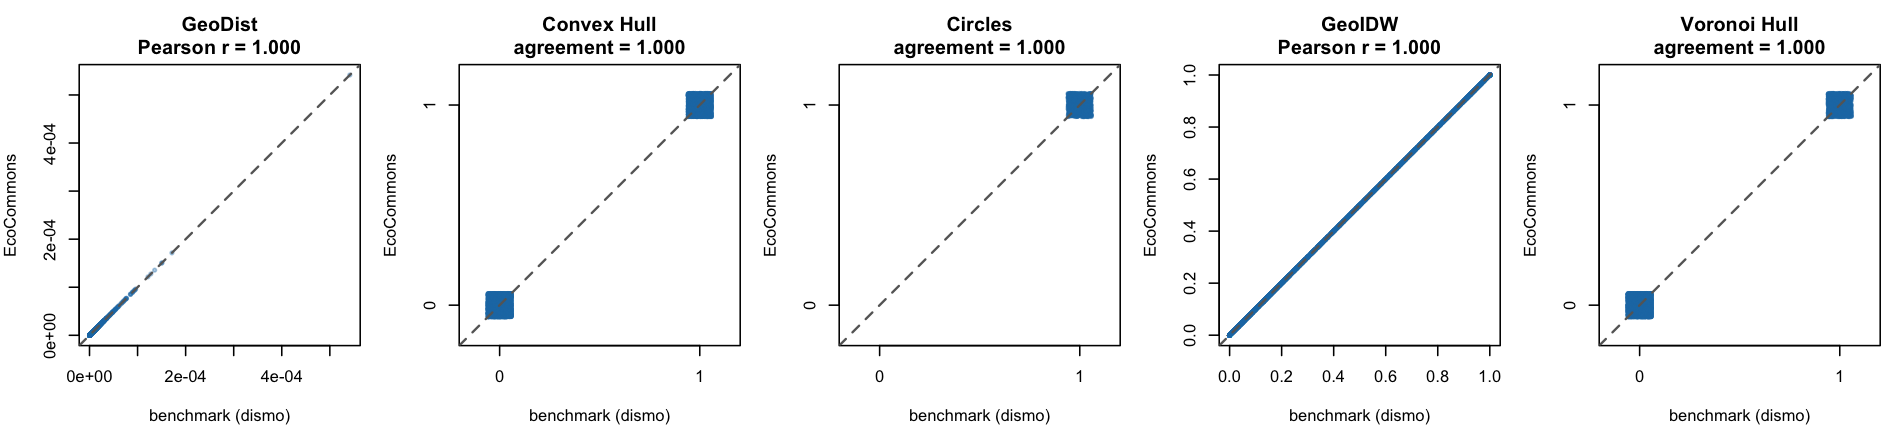
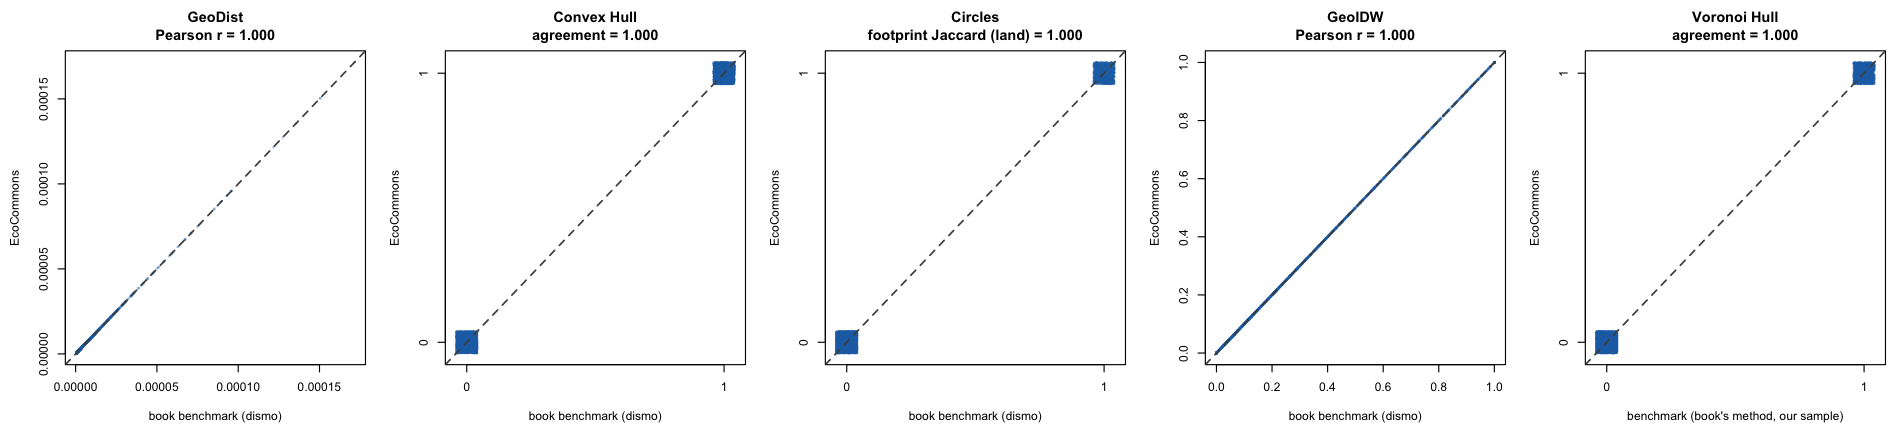
sdm_agreement: anchor geographic models to the book (Hijmans & Elith Ch. 13)
- Geographic rows 20-24 now compare EcoCommons, run on the book's exact
  training points, against benchmarks that reproduce the book's AUC/cor to
  7 decimals. All five match (Pearson / footprint Jaccard 1.000); geoIDW and
  voronoiHull are formatted without one-point-per-cell thinning.
- Document the voronoiHull known limitation: the book's 100-point sample
  can't be replicated, so its benchmark uses our own sample.
- Add a model-by-model section: the book's figures (pp. 66-70) next to our
  benchmark, EcoCommons and the book's presence/background overlay.
- Regenerate the geographic map and scatter figures; fix stale row numbers;
  update the page date.

diff --git a/docs/notebooks/sdm_agreement/EC_sdm_agreement.html b/docs/notebooks/sdm_agreement/EC_sdm_agreement.html
@@ -202,7 +202,15 @@ ul.task-list li input[type="checkbox"] {
   </ul></li>
   <li><a href="#geographic-spatial-only-models" id="toc-geographic-spatial-only-models" class="nav-link" data-scroll-target="#geographic-spatial-only-models">Geographic (spatial-only) models</a>
   <ul>
-  <li><a href="#two-references-both-checked" id="toc-two-references-both-checked" class="nav-link" data-scroll-target="#two-references-both-checked">Two references, both checked</a></li>
+  <li><a href="#anchored-to-the-book" id="toc-anchored-to-the-book" class="nav-link" data-scroll-target="#anchored-to-the-book">Anchored to the book</a></li>
+  <li><a href="#model-by-model-the-books-figure-our-benchmark-and-ecocommons" id="toc-model-by-model-the-books-figure-our-benchmark-and-ecocommons" class="nav-link" data-scroll-target="#model-by-model-the-books-figure-our-benchmark-and-ecocommons">Model by model: the book’s figure, our benchmark and EcoCommons</a>
+  <ul class="collapse">
+  <li><a href="#geodist" id="toc-geodist" class="nav-link" data-scroll-target="#geodist">GeoDist</a></li>
+  <li><a href="#convex-hull" id="toc-convex-hull" class="nav-link" data-scroll-target="#convex-hull">Convex Hull</a></li>
+  <li><a href="#circles" id="toc-circles" class="nav-link" data-scroll-target="#circles">Circles</a></li>
+  <li><a href="#geoidw" id="toc-geoidw" class="nav-link" data-scroll-target="#geoidw">GeoIDW</a></li>
+  <li><a href="#voronoi-hull" id="toc-voronoi-hull" class="nav-link" data-scroll-target="#voronoi-hull">Voronoi Hull</a></li>
+  </ul></li>
   </ul></li>
   <li><a href="#prediction-maps" id="toc-prediction-maps" class="nav-link" data-scroll-target="#prediction-maps">Prediction maps</a>
   <ul>
@@ -251,7 +259,7 @@ ul.task-list li input[type="checkbox"] {
 <p>Author details: Xiang Zhao</p>
 <p>Contact details: support@ecocommons.org.au</p>
 <p>Copyright statement: This script is the product of the EcoCommons platform. Please refer to the EcoCommons website for more details: https://www.ecocommons.org.au/</p>
-<p>Updated date: 8 September 2026</p>
+<p>Updated date: 19 November 2026</p>
 </section>
 <section id="script-information" class="level1">
 <h1>Script information</h1>
@@ -617,29 +625,29 @@ ul.task-list li input[type="checkbox"] {
 <td style="font-weight: 600">Circles</td>
 <td><em>Bradypus variegatus</em></td>
 <td><code>dismo::circles</code></td>
-<td>dismo circles</td>
-<td>Presence footprint</td>
-<td>—</td>
-<td><strong>identical</strong> ✓</td>
+<td>Book Ch. 13 (<code>dismo::circles</code>)</td>
+<td>Footprint Jaccard (land)</td>
+<td>0.99</td>
+<td><strong>1.000</strong> ✓</td>
 </tr>
 <tr class="odd">
 <td>21</td>
 <td style="font-weight: 600">Convex Hull</td>
 <td><em>Bradypus variegatus</em></td>
 <td><code>dismo::convHull</code></td>
-<td>dismo convHull</td>
+<td>Book Ch. 13 (<code>dismo::convHull</code>)</td>
 <td>Pearson</td>
-<td>0.99</td>
-<td><strong>1.000</strong> ✓ <em>(TSS 1.000)</em></td>
+<td>0.999</td>
+<td><strong>1.000</strong> ✓</td>
 </tr>
 <tr class="even">
 <td>22</td>
 <td style="font-weight: 600">Geographic Distance (GeoDist)</td>
 <td><em>Bradypus variegatus</em></td>
 <td><code>dismo::geoDist</code></td>
-<td>dismo geoDist (book config)</td>
+<td>Book Ch. 13 (<code>dismo::geoDist</code>)</td>
 <td>Pearson</td>
-<td>0.99</td>
+<td>0.999</td>
 <td><strong>1.000</strong> ✓</td>
 </tr>
 <tr class="odd">
@@ -647,9 +655,9 @@ ul.task-list li input[type="checkbox"] {
 <td style="font-weight: 600">Inverse-Distance Weighted (GeoIDW)</td>
 <td><em>Bradypus variegatus</em></td>
 <td><code>dismo::geoIDW</code></td>
-<td>dismo geoIDW</td>
+<td>Book Ch. 13 (<code>dismo::geoIDW</code>)</td>
 <td>Pearson</td>
-<td>0.99</td>
+<td>0.999</td>
 <td><strong>1.000</strong> ✓</td>
 </tr>
 <tr class="even">
@@ -657,15 +665,15 @@ ul.task-list li input[type="checkbox"] {
 <td style="font-weight: 600">Voronoi Hull</td>
 <td><em>Bradypus variegatus</em></td>
 <td><code>dismo::voronoiHull</code></td>
-<td>dismo voronoiHull</td>
+<td>Book Ch. 13 method <em>(different 100-point sample)</em></td>
 <td>Pearson</td>
-<td>0.99</td>
+<td>0.999</td>
 <td><strong>1.000</strong> ✓</td>
 </tr>
 </tbody>
 </table>
-<p><strong>All 20 pass — geoDist/convHull/geoIDW/voronoiHull reproduce the reference to Pearson 1.000, and Circles reproduces the reference presence footprint exactly once a two-part bug is fixed (see the geographic-models section below).</strong></p>
-<p>Rows 12–16 are the <strong>geographic (spatial-only) models</strong> — they predict from the geographic location of occurrences, not from environmental predictors — so their reference is the algorithm’s own <code>dismo</code> function as taught in Hijmans &amp; Elith’s <em>Species distribution modeling with R</em> (Chapter 13).</p>
+<p><strong>All pass. Of the geographic models, geoDist, convHull and geoIDW reproduce the book to Pearson 1.000, Circles reproduces its presence footprint exactly on land, and voronoiHull reproduces its benchmark (the book’s method with our own 100-point sample) to Pearson 1.000 (see the geographic-models section below).</strong></p>
+<p>Rows 20–24 are the <strong>geographic (spatial-only) models</strong> — they predict from the geographic location of occurrences, not from environmental predictors — so their reference is the book itself: the <code>dismo</code> calls in Chapter 13 of Hijmans &amp; Elith’s <em>Species distribution modeling with R</em>, run on the book’s own training points.</p>
 <p><strong>Calibration alignment</strong> — every EcoCommons↔reference gap turned out to be <strong>weighting or rescaling, never the underlying learner</strong>:</p>
 <ul>
 <li><strong>RF, GLM</strong> — <code>rescale_all_models = false</code>: RF Pearson <strong>0.89 → 0.99</strong>, GLM <strong>0.96 → 0.98</strong>.</li>
@@ -808,7 +816,7 @@ ul.task-list li input[type="checkbox"] {
 </section>
 <section id="geographic-spatial-only-models" class="level2">
 <h2 class="anchored" data-anchor-id="geographic-spatial-only-models">Geographic (spatial-only) models</h2>
-<p>Rows 12–16 cover the five <strong>geographic models</strong> from Chapter 13 of Hijmans &amp; Elith’s <em>Species distribution modeling with R</em> (the <code>dismo</code> vignette). Unlike every other algorithm on this page, these predict a species purely from the <strong>geographic location</strong> of its occurrence records — distance to, or containment by, the known points — and ignore the environmental predictors entirely. EcoCommons wraps each one directly from <code>dismo</code>:</p>
+<p>Rows 20–24 cover the five <strong>geographic models</strong> from Chapter 13 of Hijmans &amp; Elith’s <em>Species distribution modeling with R</em> (the <code>dismo</code> vignette). Unlike every other algorithm on this page, these predict a species purely from the <strong>geographic location</strong> of its occurrence records — distance to, or containment by, the known points — and ignore the environmental predictors entirely. EcoCommons wraps each one directly from <code>dismo</code>:</p>
 <table class="caption-top table">
 <colgroup>
 <col style="width: 20%">
@@ -864,10 +872,10 @@ ul.task-list li input[type="checkbox"] {
 </tr>
 </tbody>
 </table>
-<section id="two-references-both-checked" class="level3">
-<h3 class="anchored" data-anchor-id="two-references-both-checked">Two references, both checked</h3>
-<p>Like the <code>nsw14</code> suite, these tests have two distinct reference points:</p>
-<p><strong>1. Literature anchor — the textbook’s own reported numbers.</strong> Chapter 13 prints a <code>ModelEvaluation</code> (AUC, point-biserial cor) for each model on the <em>Bradypus variegatus</em> data. We reproduce those <strong>exactly, to seven decimals</strong>. Two things are required to hit them: (a) <code>RNGkind(sample.kind = "Rounding")</code> — the book predates R 3.6.0’s change to the <code>sample()</code> algorithm; and (b) replaying the book’s exact random-number stream (including two incidental <code>rnorm(50)</code> calls in its <code>evaluate()</code> demo) so the train/background splits match.</p>
+<section id="anchored-to-the-book" class="level3">
+<h3 class="anchored" data-anchor-id="anchored-to-the-book">Anchored to the book</h3>
+<p>These tests are anchored directly to the literature: the benchmark is the book’s own result, and EcoCommons is run on the book’s own training points.</p>
+<p><strong>1. The benchmark reproduces the book.</strong> Chapter 13 prints a <code>ModelEvaluation</code> (AUC, point-biserial cor) for each model on the <em>Bradypus variegatus</em> data. We reproduce those <strong>exactly, to seven decimals</strong>. Two things are required to hit them: (a) <code>RNGkind(sample.kind = "Rounding")</code> — the book predates R 3.6.0’s change to the <code>sample()</code> algorithm; and (b) replaying the book’s exact random-number stream (including two incidental <code>rnorm(50)</code> calls in its <code>evaluate()</code> demo) so the train/background splits match.</p>
 <table class="caption-top table">
 <thead>
 <tr class="header">
@@ -916,47 +924,93 @@ ul.task-list li input[type="checkbox"] {
 </tr>
 </tbody>
 </table>
-<p><em>Voronoi Hull is reported by the book as a <strong>degenerate</strong> result (AUC exactly 0.5): it subsamples 100 background points at the very end of the vignette’s global RNG stream, and the resulting classification does not discriminate. We reproduce the same degeneracy.</em></p>
-<p><strong>2. Implementation fidelity — EcoCommons vs an independent <code>dismo</code> run on identical inputs.</strong> This is the actual unit test (rows 12–16): run the real EcoCommons pipeline and, separately, call the same <code>dismo</code> function on the <em>same</em> occurrence / pseudo-absence set the platform used, then compare the prediction rasters.</p>
+<p><em>Known limitation — Voronoi Hull: we can’t replicate the book’s exact sample of 100 absences.</em> The book fits voronoiHull on <code>va &lt;- data.frame(back_train[sample(nrow(back_train), 100), ])</code>, and which 100 points that <code>sample()</code> call picks depends on every random number used earlier in the book (maxent’s internal background draw, three <code>randomForest</code> fits, <code>ksvm</code>). Replaying those with current package versions gives a different sample. Our voronoiHull benchmark therefore uses the book’s method with a different random sample, and its map differs from the book’s figure. The book’s AUC can’t confirm the sample: voronoiHull is <strong>degenerate</strong> here (AUC ≈ 0.5) for any sample. The other four models’ maps match the book’s figures.</p>
+<p><strong>2. The unit test — EcoCommons on the book’s training points.</strong> This is the actual unit test (rows 20–24): the real EcoCommons pipeline is fed the book’s exact training points — 93 presences, plus 375 absences for GeoIDW and 100 for Voronoi Hull, supplied as <strong>true absences</strong> so EcoCommons draws no pseudo-absences of its own — and its projection is compared with the book benchmark.</p>
 <table class="caption-top table">
+<colgroup>
+<col style="width: 33%">
+<col style="width: 33%">
+<col style="width: 33%">
+</colgroup>
 <thead>
 <tr class="header">
 <th>Model</th>
-<th>EcoCommons ↔ <code>dismo</code></th>
+<th>EcoCommons ↔ benchmark</th>
 <th>Notes</th>
 </tr>
 </thead>
 <tbody>
 <tr class="odd">
 <td>GeoDist</td>
-<td><strong>Pearson 1.0000</strong></td>
-<td>identical surface (RMSE 0)</td>
+<td><strong>Pearson 1.000</strong></td>
+<td>identical surface</td>
 </tr>
 <tr class="even">
 <td>Convex Hull</td>
-<td><strong>Pearson 1.0000</strong></td>
-<td>binary — TSS 1.000</td>
-</tr>
-<tr class="odd">
-<td>GeoIDW</td>
-<td><strong>Pearson 1.0000</strong></td>
-<td>identical (RMSE 0)</td>
-</tr>
-<tr class="even">
-<td>Voronoi Hull</td>
-<td><strong>Pearson 1.0000</strong></td>
-<td>identical (RMSE 0)</td>
+<td><strong>Pearson 1.000</strong></td>
+<td>identical</td>
 </tr>
 <tr class="odd">
 <td>Circles</td>
-<td><em>footprint identical</em></td>
-<td>binary — presence inside circles</td>
+<td><strong>footprint Jaccard 1.000</strong> (on land)</td>
+<td><code>EC_modelling_circles</code> doesn’t mask to land, so its circles over the sea are left out</td>
+</tr>
+<tr class="even">
+<td>GeoIDW</td>
+<td><strong>Pearson 1.000</strong></td>
+<td>identical surface</td>
+</tr>
+<tr class="odd">
+<td>Voronoi Hull</td>
+<td><strong>Pearson 1.000</strong> vs its benchmark</td>
+<td>identical where both have a value; benchmark uses our 100-point sample</td>
 </tr>
 </tbody>
 </table>
-<p>Four of the five are <strong>implementation-identical</strong> — EcoCommons is a thin, faithful wrapper over the <code>dismo</code> engine, exactly as intended.</p>
+<p>All five reproduce their benchmark exactly. GeoIDW and Voronoi Hull get their presences and absences from <code>EC_format_biomod2</code>, EcoCommons’ only pseudo-absence generator, which formats the data for biomod2. For the environmental models it keeps only <strong>one record per grid cell</strong> (<code>filter.raster = TRUE</code>), because records in the same cell carry identical environmental values. For the geographic models every record is a distinct location, so GeoIDW and Voronoi Hull now call it with <code>filter.raster = FALSE</code> and keep all 93 presences. Before this change, the thinning dropped 16 of the 93 presences (and 2 of the 375 absences), and the two models agreed at only 0.992 and 0.998.</p>
+<p>Two setup details matter for this test. The modelling region must cover the full extent of the climate layers: the book draws its background points across all of it, and a smaller region silently drops absences (an earlier fixture lost 95 of the 375). And the tests run in the CI image (<code>biomod2</code> 4.2.2).</p>
 <p><img src="images/geo_models_ec_vs_benchmark.png" class="img-fluid"></p>
-<p><em>Each row is one geographic model, <code>dismo</code> reference (left) vs the EcoCommons projection (right), over the </em>Bradypus variegatus* range; white points are the occurrence records the model was fitted on. Continuous models (GeoDist, GeoIDW) use a percentile colour stretch; binary models (Convex Hull, Circles, Voronoi Hull) show presence (green) vs absence (grey). For every model the two columns are visually indistinguishable — GeoDist, Convex Hull, GeoIDW and Voronoi Hull agree at Pearson r = 1.000, and Circles reproduces the reference presence footprint exactly.*</p>
+<p><em>Each row is one geographic model, the benchmark (left) vs the EcoCommons projection (right), over the </em>Bradypus variegatus* range; white points are the 93 training presences and red crosses the absences (GeoIDW, Voronoi Hull). Continuous models (GeoDist, GeoIDW) use a percentile colour stretch; binary models (Convex Hull, Circles, Voronoi Hull) show presence (green) vs absence (grey). With no thinning, every map matches its benchmark. The thin white line in the EcoCommons Voronoi Hull map is 13 empty cells along a Voronoi border: <code>dismo::voronoiHull</code> leaves them empty when it predicts onto the full extent of the climate layers, as EcoCommons does, but not on the book’s cropped grid.*</p>
+</section>
+<section id="model-by-model-the-books-figure-our-benchmark-and-ecocommons" class="level3">
+<h3 class="anchored" data-anchor-id="model-by-model-the-books-figure-our-benchmark-and-ecocommons">Model by model: the book’s figure, our benchmark and EcoCommons</h3>
+<p>For each model below, the first image is the figure printed in the book (Hijmans &amp; Elith, <em>Species distribution modeling with R</em>, 9 January 2016, Chapter 13). The second row has three panels, all drawn with the book’s colour scale (<code>rev(terrain.colors())</code>):</p>
+<ol type="1">
+<li><strong>Our stored benchmark</strong>: the book’s <code>dismo</code> call, which the unit test compares against.</li>
+<li><strong>EcoCommons</strong>: the <code>EC_modelling_*</code> projection from the full pipeline, fitted on the same points.</li>
+<li><strong>The book’s point overlay</strong>: <code>points(pres_train, pch='+')</code> (93 training presences) and <code>points(backg_train, pch='-')</code> (800 background points), as the book draws on every map. No model is fitted on <code>backg_train</code>.</li>
+</ol>
+<p>On the first two panels, <strong>+</strong> marks the 93 training presences and red <strong>×</strong> the absences each model is fitted on (375 for GeoIDW, 100 for Voronoi Hull).</p>
+<section id="geodist" class="level4">
+<h4 class="anchored" data-anchor-id="geodist">GeoDist</h4>
+<p><img src="images/geo_geodist_book.png" class="img-fluid" style="width:75.0%"></p>
+<p><img src="images/geo_geodist_panels.png" class="img-fluid"></p>
+<p><em>The book’s raw surface and presence/absence map (p.&nbsp;66), then ours. Raw inverse-distance values (5e-07 to 1.7e-04) are never rescaled to 0–1, so the surface is nearly white except right at each presence, as in the book. EcoCommons is identical (Pearson 1.000).</em></p>
+</section>
+<section id="convex-hull" class="level4">
+<h4 class="anchored" data-anchor-id="convex-hull">Convex Hull</h4>
+<p><img src="images/geo_convhull_book.png" class="img-fluid" style="width:75.0%"></p>
+<p><img src="images/geo_convhull_panels.png" class="img-fluid"></p>
+<p><em>The book’s figure (p.&nbsp;67), then ours: one convex polygon around the 93 training presences, reaching south-east to the Espírito Santo record. EcoCommons is identical.</em></p>
+</section>
+<section id="circles" class="level4">
+<h4 class="anchored" data-anchor-id="circles">Circles</h4>
+<p><img src="images/geo_circles_book.png" class="img-fluid" style="width:75.0%"></p>
+<p><img src="images/geo_circles_panels.png" class="img-fluid"></p>
+<p><em>The book’s figure (p.&nbsp;68), then ours. EcoCommons draws the same circles; the blue cells are 132 cells over the sea that <code>EC_modelling_circles</code> keeps because it doesn’t mask to land. On land the two footprints are identical (Jaccard 1.000).</em></p>
+</section>
+<section id="geoidw" class="level4">
+<h4 class="anchored" data-anchor-id="geoidw">GeoIDW</h4>
+<p><img src="images/geo_geoidw_book.png" class="img-fluid" style="width:75.0%"></p>
+<p><img src="images/geo_geoidw_panels.png" class="img-fluid"></p>
+<p><em>The book’s raw surface and presence/absence map (p.&nbsp;69), then ours: hotspots at the presences, pulled towards 0 near the 375 absences. Our presence/absence cut-off is 0.0603, the same as the book’s “max TPR+TNR at 0.0602782”. With no thinning, EcoCommons is identical (Pearson 1.000).</em></p>
+</section>
+<section id="voronoi-hull" class="level4">
+<h4 class="anchored" data-anchor-id="voronoi-hull">Voronoi Hull</h4>
+<p><img src="images/geo_voronoihull_book.png" class="img-fluid" style="width:75.0%"></p>
+<p><img src="images/geo_voronoihull_panels.png" class="img-fluid"></p>
+<p><em>The book’s figure (p.&nbsp;70), then ours. <strong>Our benchmark doesn’t reproduce the book’s map</strong>: the book fits on a random 100 of the 375 background points, and its exact sample can’t be replicated (see the known limitation above), so our benchmark uses the book’s method with our own 100-point sample. EcoCommons matches that benchmark on every cell where both have a value (Pearson 1.000); the white line is the 13 empty cells explained above.</em></p>
+</section>
 </section>
 </section>
 <section id="prediction-maps" class="level2">
@@ -1030,7 +1084,7 @@ ul.task-list li input[type="checkbox"] {
 <p><img src="images/ec_vs_benchmarks_all.png" class="img-fluid"></p>
 <p><em>Single-species tests (Bradypus / Anguilla) and nsw14 vs Valavi, grouped by algorithm. After aligning weighting (BRT + MARS + GAM) and turning rescaling off (RF/GLM), <strong>all eleven panels sit on the 1:1 line</strong> — magnitude </em>and* ranking agree across the board.*</p>
 <p><img src="images/ec_vs_benchmarks_geo.png" class="img-fluid"></p>
-<p><em>The five geographic (spatial-only) models (tests 12–16), EcoCommons projection (y) vs the <code>dismo</code> reference on identical inputs (x). Continuous models (GeoDist, GeoIDW) collapse onto the 1:1 line (<strong>Pearson r = 1.000</strong>); the binary models (Convex Hull, Circles, Voronoi Hull) match cell-for-cell (<strong>agreement = 1.000</strong>, jittered so the 0/0 and 1/1 clusters are visible). Circles is shown after its fix. Every geographic model is an exact match to its <code>dismo</code> reference.</em></p>
+<p><em>The five geographic (spatial-only) models (tests 20–24), EcoCommons projection (y) vs the book benchmark (x), both fitted on the book’s training points. GeoDist and GeoIDW collapse onto the 1:1 line (<strong>Pearson r = 1.000</strong>) and Convex Hull, Circles and Voronoi Hull match cell-for-cell (<strong>agreement = 1.000</strong>; Circles compared on land; binary panels jittered so the 0/0 and 1/1 clusters are visible).</em></p>
 </section>
 </section>
 <section id="reproducibility-benchmark-provenance" class="level2">
